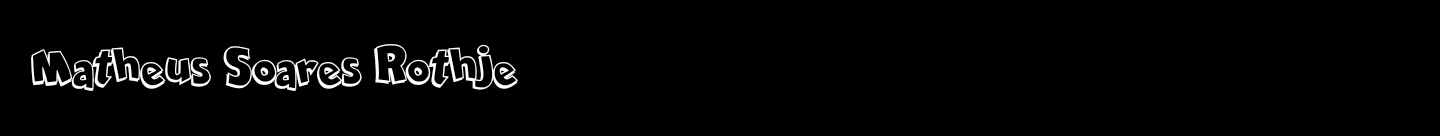
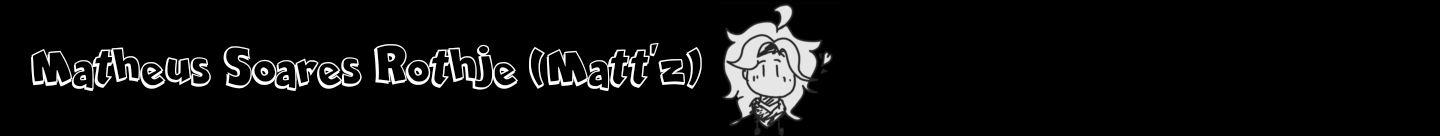
Finalização css

Changed region(s): [[0.3438, 0.0294, 0.5938, 0.9706]]

diff --git a/Aula 3 estilização css.html b/Aula 3 estilização css.html
@@ -14,10 +14,12 @@
     <a href="https://www.instagram.com/matt_sr2/"> <img id="perfil" src="./image/Eu ;).jpg" alt="Meu Perfil"></a>
 
     <section>
+    <div class="textz">
         <font color="#f5f5f5"
-        <p> <h1>Matheus Soares Rothje (Matt´z)</p><h1>
+        <p> <h1> Matheus Soares Rothje (Matt´z)</p><h1>
             <h2> <p>Sou alguem que tem bastante interesse na progamação, quero muito aprender o maximo possivel! Mas meus interesses não se limitam a apenas isso. </p>Eu gosto muito de desenhar e pretendo levar minha historias ao mundo, des das mais estranhas até as mais dramaticas.</h2> </p>
         </font>
+    </div>
     </section>
 
     <section>
@@ -51,27 +53,35 @@
    </section>
 
    <section>
-        <font color="#f5f5f5"
-    <p> <h1> Por último porém não menos importante...</h1>
-        <h2> Oque me faz continuar? </h2>
+    <div class="textz">
+        <font color="#455187"
+    <p> <i><h1> Por último porém não menos importante...</h1></i>
+        <i><h2> Oque me faz continuar? O que me motiva sempre que algo parece impossivel?</h2></i>
     </font>
     </p>
+    </div>
+    
     </section>
 
     <section>
 
-        <a href="https://www.instagram.com/matt_sr2/"> <img id="myheart" src="./image/Moon.png" alt="AmorS2"></a>
+        <a href="https://www.youtube.com/watch?v=rgO7pjirvW0"> <img id="myheart" src="./image/Moon.png" alt="AmorS2"></a>
 
+    <div class="textz">
         <font color="#f5f5f5">
         <p> <h3>A minha namorada, Luana <font color="#ff0000">S2</font>. </p>
-           <p>Eu amo cada momento que tenho com Ela e Ela é alguem muito importante em minha vida, que sinceramente Eu não consigo me ver longe dela nem por um unico segundo que ja quero voltar para seu abraço.</p> 
-           <p> Ela é o principal motivo de Eu demonstrar tanto esforço no curso e me manter de pé não com oque venha.</p> 
-           <p>Um dos motivos de Eu querer entrar no ramo da progamação é o fato de não ser necessario estar fora de casa, assim poderei estar presente na vida dela e dar uma boa vida a mesma com o lucro vindo deste ramo.</h3> </p> 
+        <p> <h3>Eu adoro cada momento que tenho com ela e queria poder fazer que nunca acabasse.</h3> </p>
+        <p> <h3>Quando fico longe de seus braços me sinto enjoado, como se um livro bom estivesse prestes a acabar.</h3> </p>
+        <p> <h3>Ou como aqueles jogo que nunca lançam, estão sempre trocando a data de lançamento.</h3> </p>
+        <p> <h3>São tantas emoções de uma vez só que chego a ter dores de cabeça durante o dia.</h3> </p>
+        <p> <h3>Mas bem, Não trocaria isso por nada.</h3> </p>
     </font>
+    </div>
+
     </section>
 
     <section>
-        <a href="https://pt.wikipedia.org/wiki/Undertale"><img id="rodape" src="./image/rodapé.png" alt=""></a>
+        <a href="https://youtu.be/CVsbTCdTyAM?si=FA757f2XFOp6kN0o"><img id="rodape" src="./image/rodapé.png" alt=""></a>
     </section>
 
 </body>

diff --git a/image/style/style.css b/image/style/style.css
@@ -1,10 +1,12 @@
 #cabecario {
     width: 100%;
     height: 308px;
+    margin: 0;
 }
 #perfil {
     width: 232px;
     height: 232px;
+    margin-right: 35px;
     float: right;
     border-radius:50%;
     -webkit-border-radius:50%;
@@ -18,18 +20,25 @@
     width: 229px;
     height: 187px;
     border: 2px solid #bebebe;
+    margin-left: 8px;
 }
 #moviespreferidos {
     width: 229px;
     height: 187px;
     border: 2px solid #bebebe;
+    margin-left: 8px;
 }
 #rodape {
     width: 100%;
     height: 136px;
+    margin: 0;
 }
 #myheart {
     width: 258px;
     height: 289x;
+    margin-right: 750px;
     float: right;
+}
+.textz {
+    margin: 25px;
 }
